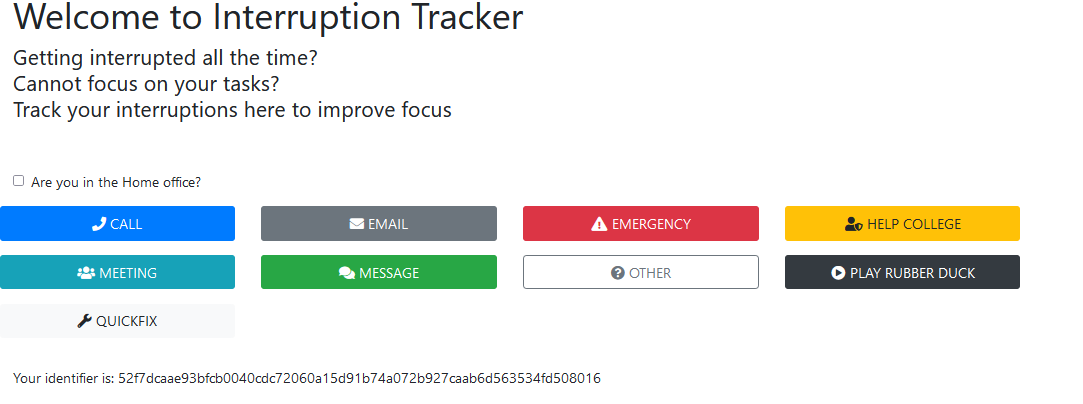
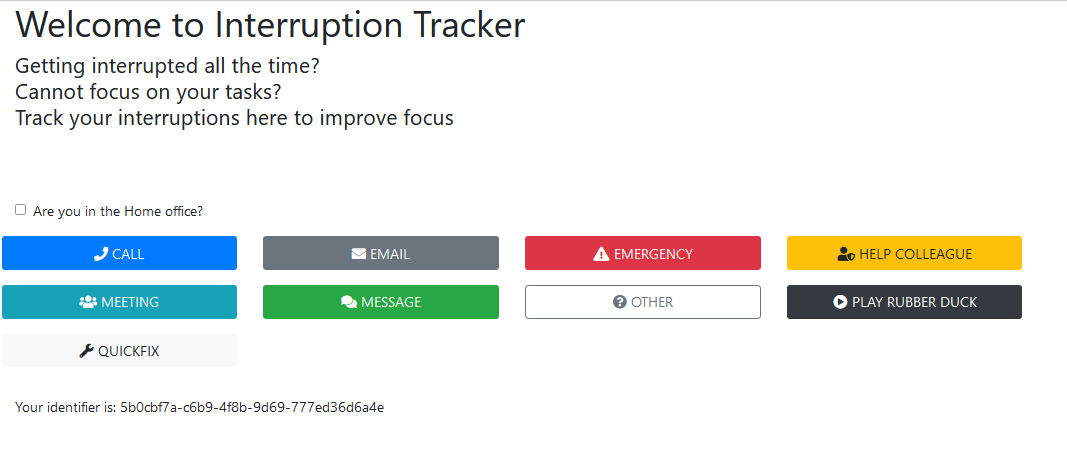
Adding docs

diff --git a/README.md b/README.md
@@ -1,12 +1,19 @@
 # Interruption Tracker
 
+It takes up to 20 minutes to re-focus again after you're interrupted.
+
+You're a developer and you're getting interrupted all the time? Use Interruption Tracker to 
+track your interruptions during the day. Make it visible - Change it. 
+
 # About
 
-Tired of being interrupted while programming? Then this tool could be for you. Track your interruptions during the day. 
+This tool can track your interruptions during the day. It's anonymous. 
+Every user will get a unique ID which will be stored as a browser cookie. As long as you use the same browser
+the ID stays the same. 
 
 ![screenshot.png](docs%2Fassets%2Fscreenshot.png)
 
-Every button click will insert a record in an InfluxDB. 
+Every button click will insert a record in an InfluxDB (v2.x). 
 Later on you can use a visualisation tool like Grafana to create a Dashboard with your interruptions.
 
 # Prerequisites
@@ -30,4 +37,26 @@ tracker.influx.org=myOrg
 * Run the batch script
 
 ## 2. Docker
-Coming soon
+
+The Docker Image is
+`ghcr.io/waschndolos/interruption-tracker:latest`
+
+### e.g. use docker-compose
+```
+version: '3.8'
+
+services:
+  interruption-tracker:
+    image: ghcr.io/waschndolos/interruption-tracker:latest
+    container_name: interruption-tracker
+    ports:
+      - "9999:9999" # host:container - you're welcome :) 
+    environment:
+      - TRACKER_INFLUX_URL=<your influx url>
+      - TRACKER_INFLUX_TOKEN=<your rw token for the bucket>
+      - TRACKER_INFLUX_BUCKET=<your bucket name>
+      - TRACKER_INFLUX_ORG=<your org name>
+    restart: always  # Ensure the container restarts if it crashes or the host reboots
+
+```
+
